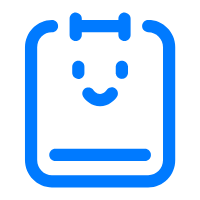
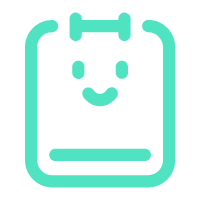
index

diff --git a/public/style/css/public.css b/public/style/css/public.css
@@ -1,6 +1,6 @@
 /* 顶部导航top-nav */
 body,html {
-   height: 100%;
+    height: 100%;
     font-size: 0.8rem;
 }
 .m-nav {
@@ -50,10 +50,10 @@ body,html {
     color:#fff;
 }
 .m-nav-item--active {
-    color:#007cff;
+    color:#50e3c2;
 }
 .m-nav-img {
-    height: 1.3rem;
+    height: 1.34rem;
 }
 
 /********** 登录 ************/
